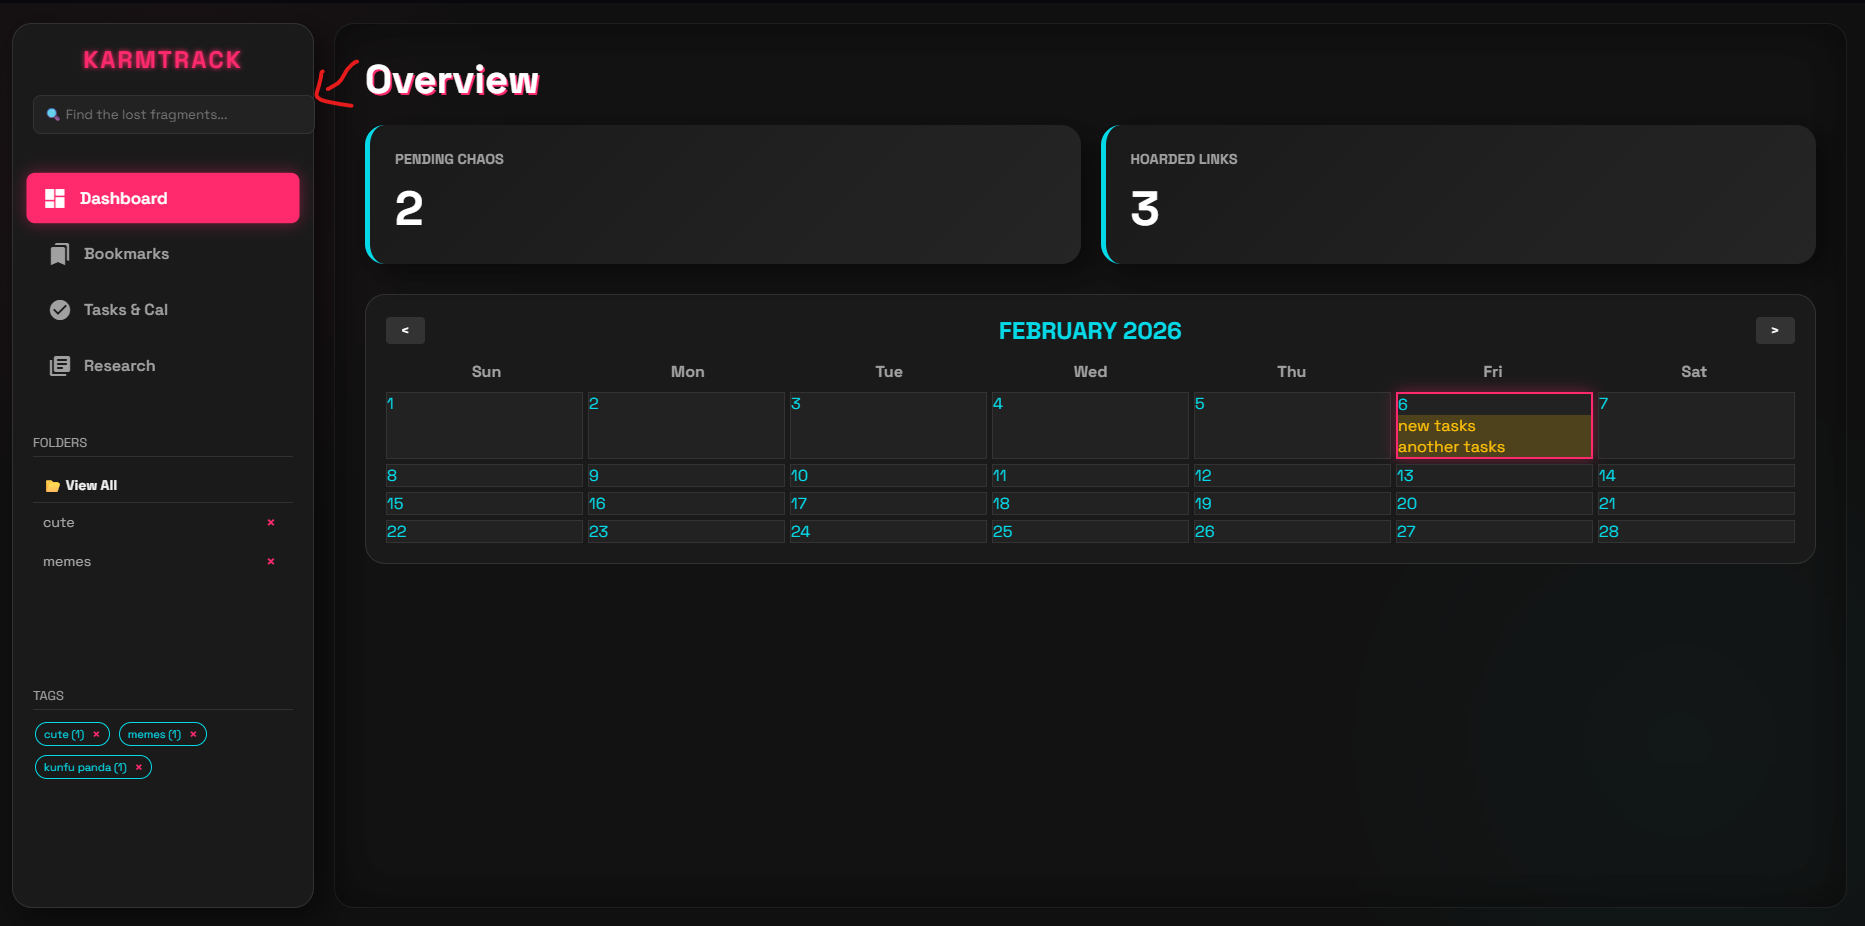
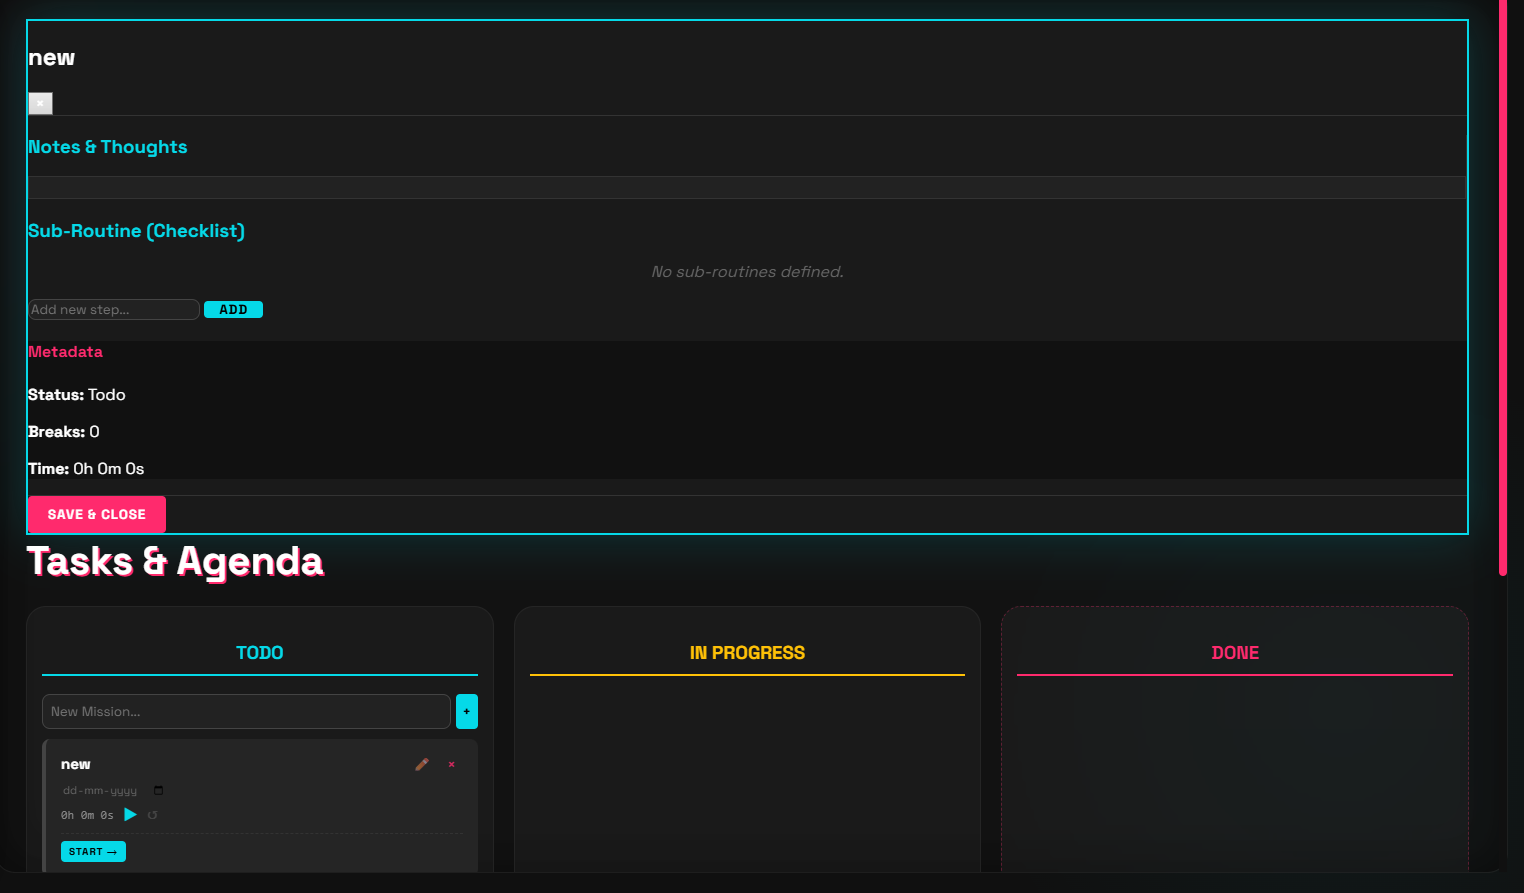
added import and export functionlity

diff --git a/server.js b/server.js
@@ -23,12 +23,13 @@ const db = new sqlite3.Database(DB_PATH, (err) => {
 
 function initDb() {
     db.serialize(() => {
-        // NEW: Folders table
+        // 1. FOLDERS
         db.run(`CREATE TABLE IF NOT EXISTS folders (
             id INTEGER PRIMARY KEY AUTOINCREMENT,
             name TEXT UNIQUE NOT NULL
         )`);
 
+        // 2. BOOKMARKS
         db.run(`CREATE TABLE IF NOT EXISTS bookmarks (
             id INTEGER PRIMARY KEY AUTOINCREMENT,
             url TEXT NOT NULL,
@@ -40,12 +41,43 @@ function initDb() {
             FOREIGN KEY (folder_id) REFERENCES folders(id) ON DELETE SET NULL
         )`);
 
-        // (Your other tables: tasks, notes, etc. remain unchanged)
-        db.run(`CREATE TABLE IF NOT EXISTS tasks (id INTEGER PRIMARY KEY AUTOINCREMENT, title TEXT NOT NULL, status TEXT DEFAULT 'todo', due_date TEXT, checklist TEXT, created_at DATETIME DEFAULT CURRENT_TIMESTAMP)`);
-        db.run(`CREATE TABLE IF NOT EXISTS notes (id INTEGER PRIMARY KEY AUTOINCREMENT, title TEXT, content TEXT, is_encrypted INTEGER DEFAULT 0, created_at DATETIME DEFAULT CURRENT_TIMESTAMP)`);
+        // 3. TASKS (Updated with 'notes' column)
+        db.run(`CREATE TABLE IF NOT EXISTS tasks (
+            id INTEGER PRIMARY KEY AUTOINCREMENT, 
+            title TEXT NOT NULL, 
+            status TEXT DEFAULT 'todo', 
+            due_date TEXT, 
+            checklist TEXT, 
+            notes TEXT,
+            created_at DATETIME DEFAULT CURRENT_TIMESTAMP
+        )`);
+
+        // 4. TASK SESSIONS (Critical for Timers - Missing previously)
+        db.run(`CREATE TABLE IF NOT EXISTS task_sessions (
+            id INTEGER PRIMARY KEY AUTOINCREMENT,
+            task_id INTEGER,
+            start_time DATETIME,
+            end_time DATETIME,
+            FOREIGN KEY (task_id) REFERENCES tasks(id) ON DELETE CASCADE
+        )`);
+
+        // 5. NOTES (Updated with 'folder_id')
+        db.run(`CREATE TABLE IF NOT EXISTS notes (
+            id INTEGER PRIMARY KEY AUTOINCREMENT, 
+            title TEXT, 
+            content TEXT, 
+            is_encrypted INTEGER DEFAULT 0, 
+            folder_id INTEGER,
+            created_at DATETIME DEFAULT CURRENT_TIMESTAMP,
+            FOREIGN KEY (folder_id) REFERENCES folders(id) ON DELETE SET NULL
+        )`);
+
+        // 6. TAGS & LINKS
         db.run(`CREATE TABLE IF NOT EXISTS tags (id INTEGER PRIMARY KEY AUTOINCREMENT, name TEXT UNIQUE)`);
         db.run(`CREATE TABLE IF NOT EXISTS item_tags (item_id INTEGER, item_type TEXT, tag_id INTEGER, PRIMARY KEY (item_id, item_type, tag_id), FOREIGN KEY (tag_id) REFERENCES tags(id))`);
         db.run(`CREATE TABLE IF NOT EXISTS links (source_id INTEGER, source_type TEXT, target_id INTEGER, target_type TEXT)`);
+        
+        console.log("Database initialized with full modern schema.");
     });
 }
 
@@ -493,6 +525,142 @@ app.delete('/api/folders/:id', (req, res) => {
             });
         });
     });
+});
+
+/* ================= CSV EXPORT/IMPORT ROUTES ================= */
+
+// 1. EXPORT BOOKMARKS TO CSV
+app.get('/api/export/bookmarks', (req, res) => {
+    const sql = `
+        SELECT b.url, b.title, b.description, f.name as folder_name, GROUP_CONCAT(t.name) as tags
+        FROM bookmarks b
+        LEFT JOIN folders f ON b.folder_id = f.id
+        LEFT JOIN item_tags it ON b.id = it.item_id AND it.item_type = 'bookmark'
+        LEFT JOIN tags t ON it.tag_id = t.id
+        GROUP BY b.id
+        ORDER BY b.created_at DESC
+    `;
+
+    db.all(sql, [], (err, rows) => {
+        if (err) return res.status(500).json({ error: err.message });
+
+        // Header Row
+        let csvContent = "URL,Title,Description,Tags,Folder\n";
+
+        // Data Rows
+        rows.forEach(row => {
+            // Helper to escape quotes and wrap in quotes
+            const escape = (txt) => {
+                if (!txt) return "";
+                return `"${txt.toString().replace(/"/g, '""')}"`; // CSV standard escaping
+            };
+
+            const line = [
+                escape(row.url),
+                escape(row.title),
+                escape(row.description),
+                escape(row.tags), // Tags will come out like "tag1,tag2" inside the quotes
+                escape(row.folder_name)
+            ].join(",");
+
+            csvContent += line + "\n";
+        });
+
+        res.header('Content-Type', 'text/csv');
+        res.attachment('karmtrack_bookmarks.csv');
+        res.send(csvContent);
+    });
+});
+
+// 2. IMPORT BOOKMARKS FROM CSV (Robust Version)
+app.post('/api/import/bookmarks', (req, res) => {
+    const { csvData } = req.body;
+    if (!csvData) return res.status(400).json({ error: "No CSV data provided" });
+
+    // Helper: Parse CSV Line
+    const parseCSVLine = (text) => {
+        const result = [];
+        let cur = '';
+        let inQuote = false;
+        for (let i = 0; i < text.length; i++) {
+            const char = text[i];
+            if (char === '"') { inQuote = !inQuote; }
+            else if (char === ',' && !inQuote) { result.push(cur); cur = ''; }
+            else { cur += char; }
+        }
+        result.push(cur);
+        return result.map(c => c.replace(/^"|"$/g, '').replace(/""/g, '"').trim());
+    };
+
+    const lines = csvData.split(/\r?\n/);
+    const parsedRows = [];
+    const uniqueFolders = new Set();
+
+    // 1. First Pass: Parse data and collect unique Folder names
+    for (let i = 1; i < lines.length; i++) {
+        if (!lines[i].trim()) continue;
+        
+        const cols = parseCSVLine(lines[i]);
+        const url = cols[0];
+        if (!url) continue;
+
+        const row = {
+            url: url,
+            title: cols[1] || url,
+            desc: cols[2] || "",
+            tags: cols[3] || "",
+            folderName: cols[4] || ""
+        };
+
+        parsedRows.push(row);
+        if (row.folderName) uniqueFolders.add(row.folderName);
+    }
+
+    db.serialize(() => {
+        // 2. Insert all Folders first (safely ignoring duplicates)
+        const folderStmt = db.prepare("INSERT OR IGNORE INTO folders (name) VALUES (?)");
+        uniqueFolders.forEach(name => folderStmt.run(name));
+        folderStmt.finalize();
+
+        // 3. Fetch all Folder IDs (Map Name -> ID)
+        db.all("SELECT id, name FROM folders", (err, dbFolders) => {
+            const folderMap = {};
+            if (dbFolders) {
+                dbFolders.forEach(f => folderMap[f.name] = f.id);
+            }
+
+            // 4. Insert Bookmarks
+            const tagInsertStmt = db.prepare("INSERT OR IGNORE INTO tags (name) VALUES (?)");
+
+            parsedRows.forEach(row => {
+                const folderId = folderMap[row.folderName] || null;
+
+                db.run("INSERT INTO bookmarks (url, title, description, folder_id) VALUES (?, ?, ?, ?)", 
+                    [row.url, row.title, row.desc, folderId], 
+                    function(err) {
+                        if (!err) {
+                            const bmId = this.lastID;
+                            // 5. Handle Tags
+                            if (row.tags) {
+                                const tags = row.tags.split(',').map(t => t.trim());
+                                tags.forEach(tag => {
+                                    if (tag) {
+                                        tagInsertStmt.run(tag);
+                                        db.run("INSERT INTO item_tags (item_id, item_type, tag_id) VALUES (?, 'bookmark', (SELECT id FROM tags WHERE name = ?))", [bmId, tag]);
+                                    }
+                                });
+                            }
+                        }
+                    }
+                );
+            });
+            
+            // Note: We finalize inside the loop logic in a real app, 
+            // but for this simple sync flow, we let garbage collection handle statement cleanup or finalize specifically if needed.
+        });
+    });
+
+    res.json({ message: "Import process started." });
 });
 
 app.listen(PORT, () => {

diff --git a/public/app.js b/public/app.js
@@ -1320,3 +1320,49 @@ function getTypeColor(type) {
     if(type === 'note') return '#ffc107';
     return '#ccc';
 }
+
+/* ================= CSV IMPORT / EXPORT ================= */
+
+function exportBookmarks() {
+    window.location.href = `${API_BASE}/export/bookmarks`;
+}
+
+async function importBookmarks(inputElement) {
+    const file = inputElement.files[0];
+    if (!file) return;
+
+    if (!confirm("Import bookmarks from CSV? \n\nNote: Duplicate URLs might be added. Existing data will NOT be deleted.")) {
+        inputElement.value = ''; // Reset
+        return;
+    }
+
+    const reader = new FileReader();
+    reader.onload = async function(e) {
+        const csvContent = e.target.result;
+        
+        try {
+            const res = await fetch(`${API_BASE}/import/bookmarks`, {
+                method: 'POST',
+                headers: { 'Content-Type': 'application/json' },
+                body: JSON.stringify({ csvData: csvContent })
+            });
+            
+            const result = await res.json();
+            alert("Import started! It may take a few seconds to organize folders and tags. The list will refresh automatically.");
+            
+            // Wait a moment for DB to churn then refresh
+            setTimeout(() => {
+                loadFolders(); // In case new folders were created
+                loadTags();    // In case new tags were created
+                loadBookmarks();
+            }, 1500);
+
+        } catch (err) {
+            console.error(err);
+            alert("Error importing CSV.");
+        }
+    };
+    
+    reader.readAsText(file);
+    inputElement.value = ''; // Reset input so same file can be selected again if needed
+}

diff --git a/public/index.html b/public/index.html
@@ -138,7 +138,17 @@
                     <!-- Top Bar: Title & View Toggles -->
                     <div style="display: flex; justify-content: space-between; align-items: center; border-bottom: 1px solid #333; padding-bottom: 15px; margin-bottom: 20px;">
                         <h1 style="margin: 0; font-size: 2rem; color: var(--accent-cyan); letter-spacing: 2px;">THE ARCHIVES</h1>
-                        <div class="view-toggles">
+                        <div class="view-toggles" style="display:flex; gap: 10px; align-items:center;">
+                            <!-- Data Controls -->
+                            <button onclick="exportBookmarks()" title="Export CSV" style="background: transparent; color: var(--accent-cyan); border: 1px solid var(--accent-cyan); border-radius: 4px; padding: 10px;"><span class="material-icons">download</span></button>
+                            <button onclick="document.getElementById('import-file').click()" title="Import CSV" style="background: transparent; color: var(--accent-cyan); border: 1px solid var(--accent-cyan); border-radius: 4px; padding: 10px;"><span class="material-icons">upload</span></button>
+                            <!-- Hidden Input for Import -->
+                            <input type="file" id="import-file" accept=".csv" style="display:none;" onchange="importBookmarks(this)">
+
+                            <!-- Divider -->
+                            <div style="width:1px; height:30px; background:#444; margin: 0 5px;"></div>
+
+                            <!-- View Controls -->
                             <button onclick="toggleBmView('list')" style="background: #222; color: white; border: 1px solid #444; border-radius: 4px; padding: 10px 15px;"><span class="material-icons">list</span></button>
                             <button onclick="toggleBmView('grid')" style="background: #222; color: white; border: 1px solid #444; border-radius: 4px; padding: 10px 15px;"><span class="material-icons">grid_view</span></button>
                         </div>